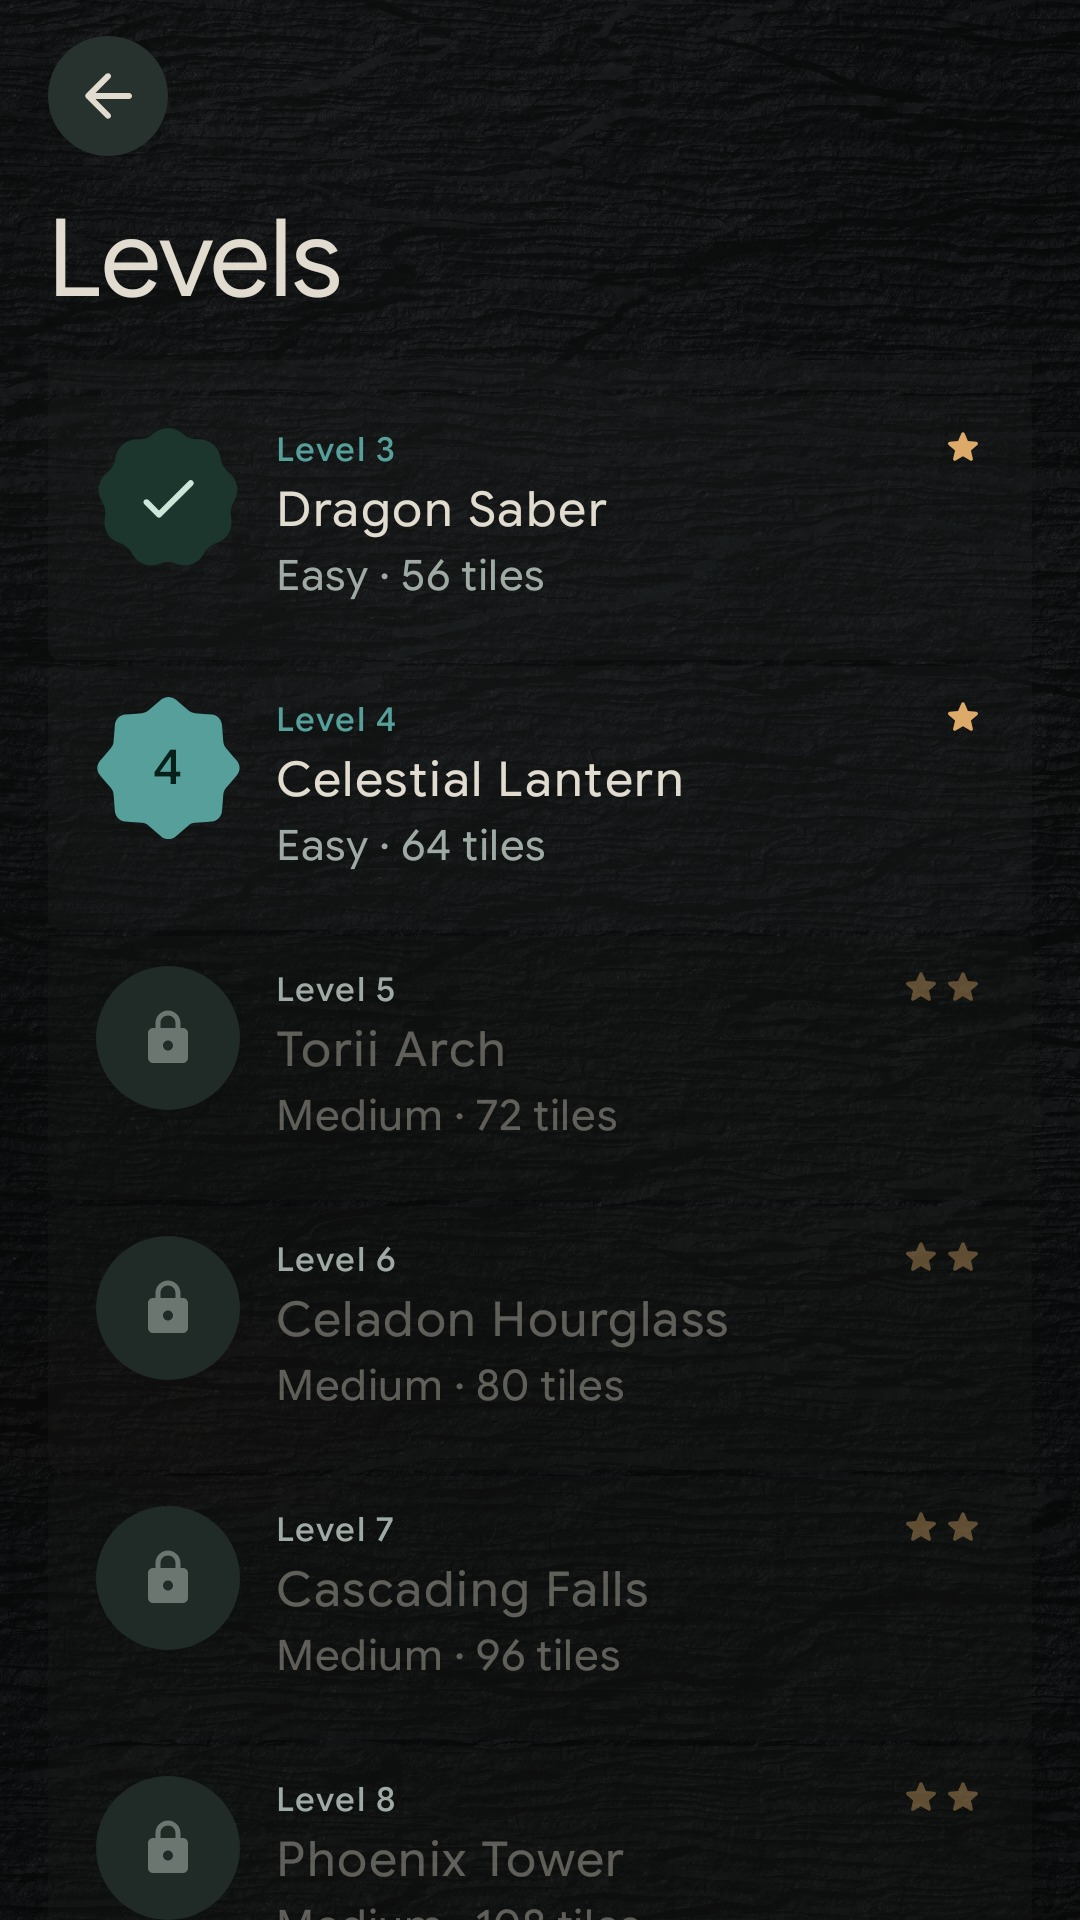
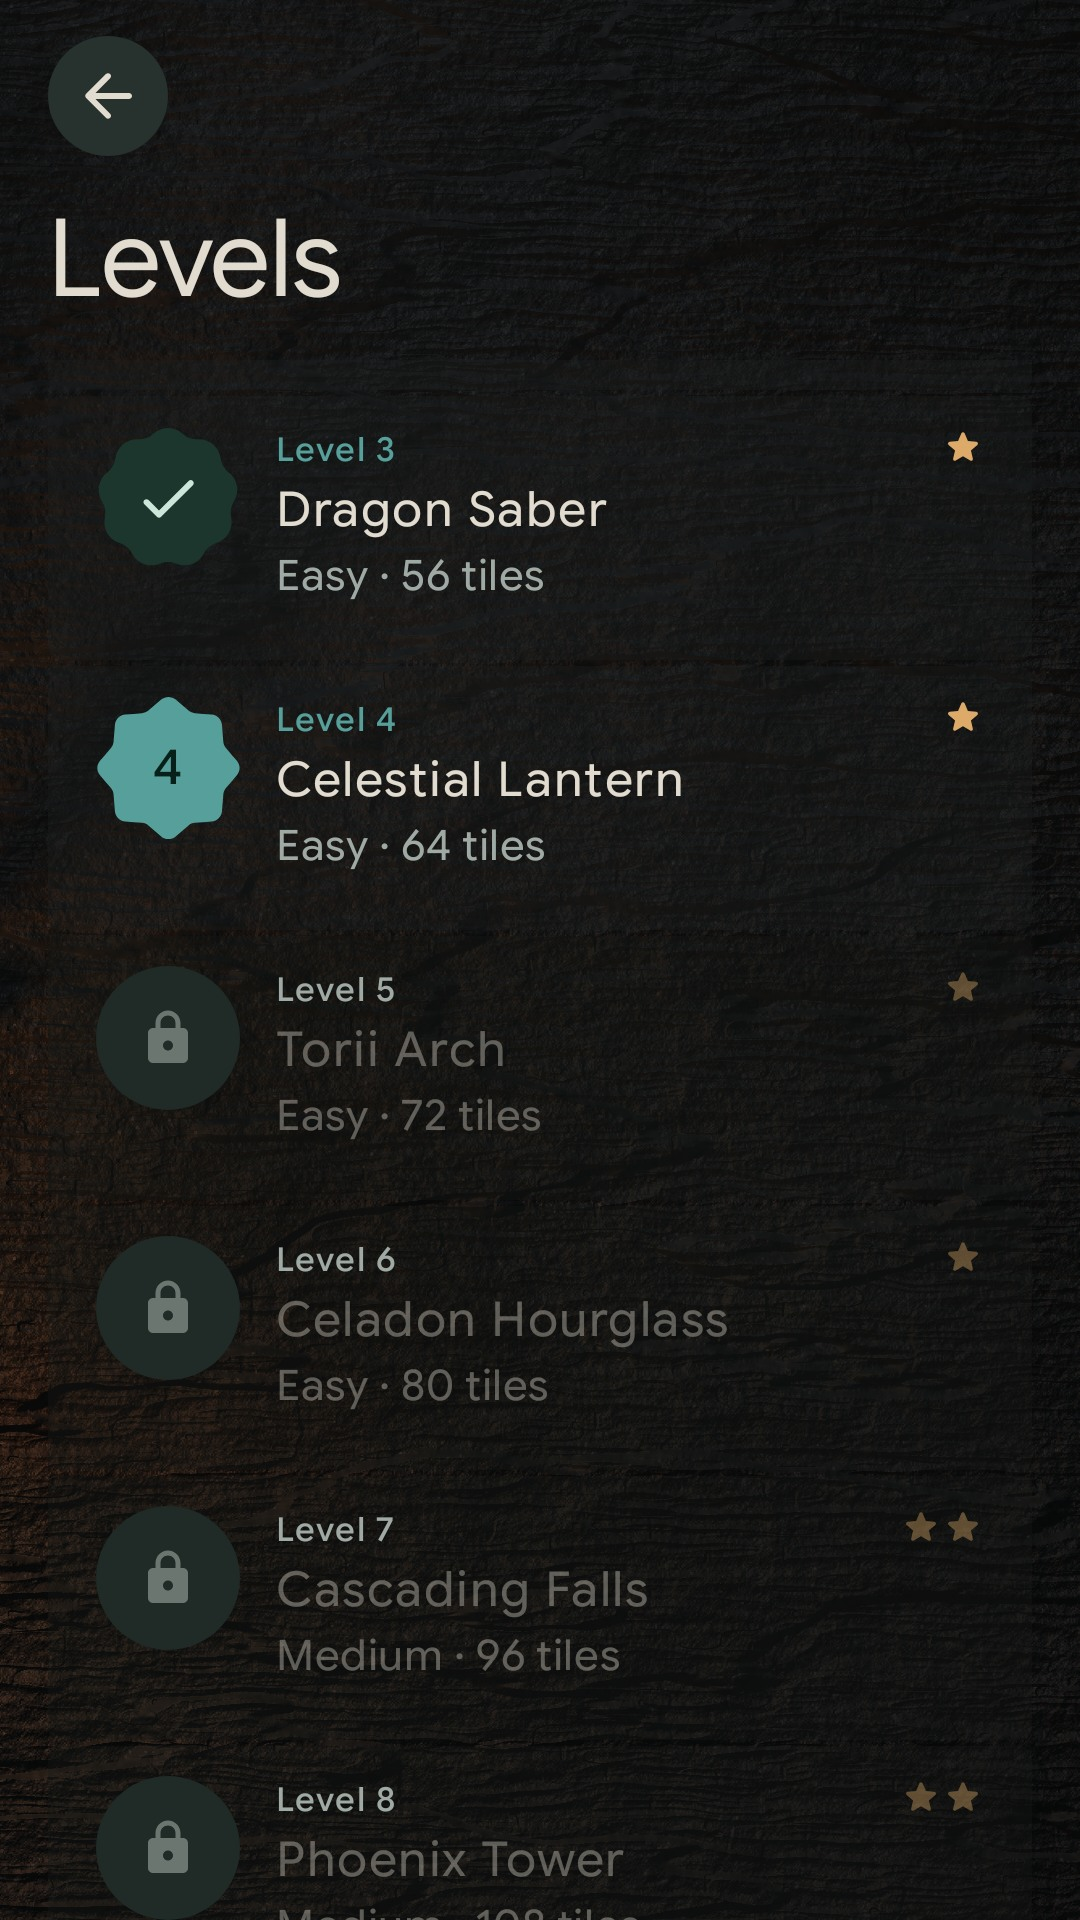
Screenshots from 1.4.0
The six store and README screenshots, rendered again from 1.4.0: the
levels list with its measured labels, and the boards with their new level
numbers. The screenshot tests now pick layouts by id and look up their
level, so a reorder can't leave a stale number in a screenshot.

diff --git a/app/src/test/java/com/vortessence/mahjong/screenshots/StoreScreenshots.kt b/app/src/test/java/com/vortessence/mahjong/screenshots/StoreScreenshots.kt
@@ -61,12 +61,21 @@ class StoreScreenshots {
 
     private fun level(index: Int) = MahjongGameEngine.startNewGame(ConstellationRepository.getLevel(index))
 
+    // Layouts are picked by id, so their level numbers follow the current order
+    private fun numberOf(id: String) = ConstellationRepository.levelIndexOf(id)!!
+
+    private fun game(surface: TableSurface, id: String, message: String? = null, won: Boolean = false) {
+        val n = numberOf(id)
+        val state = level(n).let { s -> if (won) s.copy(tiles = s.tiles.map { it.copy(isRemoved = true) }, isWon = true) else s }
+        game(surface, state, n, message)
+    }
+
     @Test
     fun s1Title() {
         compose.setContent {
             MahjongTheme {
                 MainMenuScreen(
-                    continueInfo = ContinueInfo("Level 22: Heart"),
+                    continueInfo = ContinueInfo("Level ${numberOf("mah_2283982827")}: Heart"),
                     onPlayLevels = {}, onChooseConstellation = {}, onSettings = {},
                 )
             }
@@ -74,11 +83,11 @@ class StoreScreenshots {
         shoot("1-title")
     }
 
-    @Test fun s2Walnut() { game(TableSurface.WALNUT, level(18), 18); shoot("2-walnut") }
+    @Test fun s2Walnut() { game(TableSurface.WALNUT, "pillar_of_heaven"); shoot("2-walnut") }
 
     @Test
     fun s3Zoomed() {
-        game(TableSurface.THAI_STRAW, level(12), 12)
+        game(TableSurface.THAI_STRAW, "mah_1088330854")
         compose.waitForIdle()
         compose.onRoot().performTouchInput {
             val c = Offset(centerX, height * 0.4f)
@@ -88,13 +97,12 @@ class StoreScreenshots {
         shoot("3-zoomed-thai-straw")
     }
 
-    @Test fun s4GreenMat() { game(TableSurface.GREEN_MAT, level(7), 7); shoot("4-green-mat") }
+    @Test fun s4GreenMat() { game(TableSurface.GREEN_MAT, "cascading_falls"); shoot("4-green-mat") }
 
     @Test
     fun s5Celebration() {
         compose.mainClock.autoAdvance = false
-        val won = level(5).let { s -> s.copy(tiles = s.tiles.map { it.copy(isRemoved = true) }, isWon = true) }
-        game(TableSurface.WALNUT, won, 5, message = "The mist lifts, and so do the tiles.")
+        game(TableSurface.WALNUT, "torii_arch", message = "The mist lifts, and so do the tiles.", won = true)
         // The 600 ms smash, then the card's 1.1 s, and a little of its fade
         compose.mainClock.advanceTimeBy(2200)
         shoot("5-celebration")
